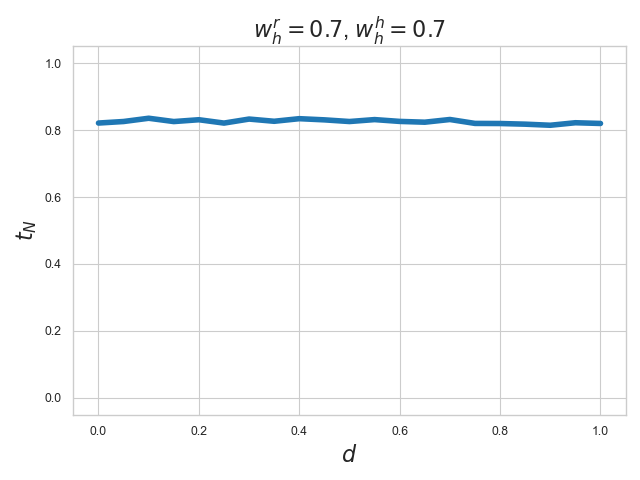
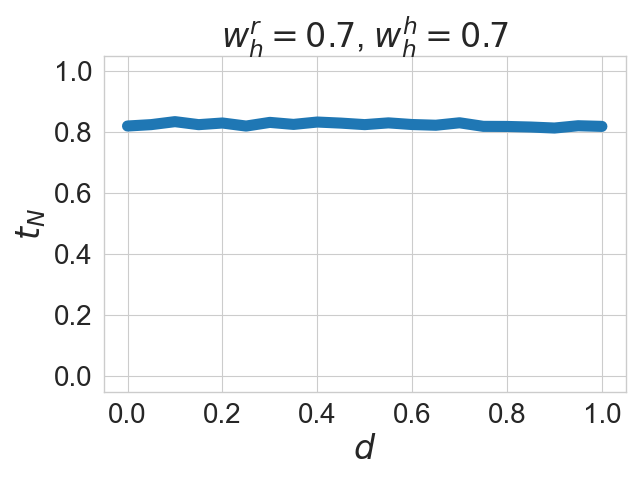
Updates

diff --git a/effect-of-value-alignment-code/final-code/plots-for-paper/non-adaptive/threat-level-effect.py b/effect-of-value-alignment-code/final-code/plots-for-paper/non-adaptive/threat-level-effect.py
@@ -72,16 +72,18 @@ def analyze(parent_directory: str, wh_rob: float, wh_hum: float, ax: plt.Axes,
     indices = np.argsort(threat_level)
     threat_level = np.array(threat_level)[indices]
     trust_fb = np.array(trust_fb)[indices]
-    ax.plot(threat_level, trust_fb, c='tab:blue', label='Feedback', lw=4)
+    ax.plot(threat_level, trust_fb, c='tab:blue', label='Feedback', lw=8)
+    plt.yticks(fontsize=20)
+    plt.xticks(fontsize=20)
 
     # ax.legend(fontsize=16, loc='lower left')
     if label_x:
-        ax.set_xlabel(r'$d$', fontsize=16)
+        ax.set_xlabel(r'$d$', fontsize=24)
     if label_y:
-        ax.set_ylabel(r'$t_N$', fontsize=16)
+        ax.set_ylabel(r'$t_N$', fontsize=24)
 
     ax.set_ylim([-0.05, 1.05])
-    ax.set_title(r'$w_h^r={:1.1f}$, $w_h^h={:1.1f}$'.format(wh_rob, wh_hum), fontsize=16)
+    ax.set_title(r'$w_h^r={:1.1f}$, $w_h^h={:1.1f}$'.format(wh_rob, wh_hum), fontsize=24)
 
 
 def main():
